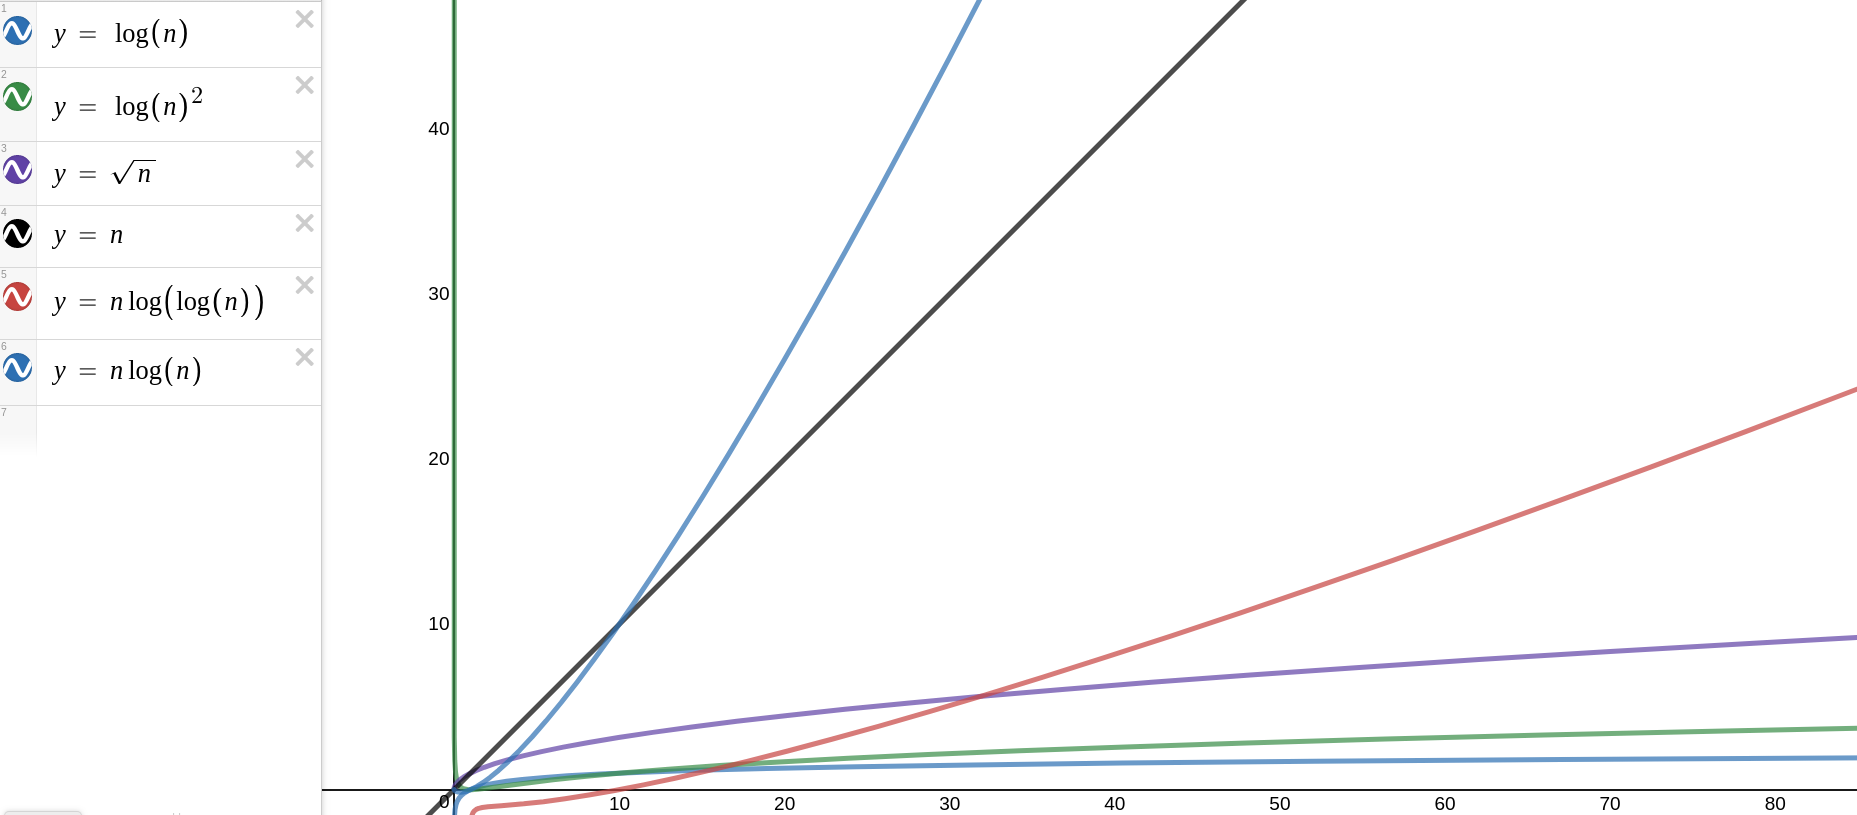
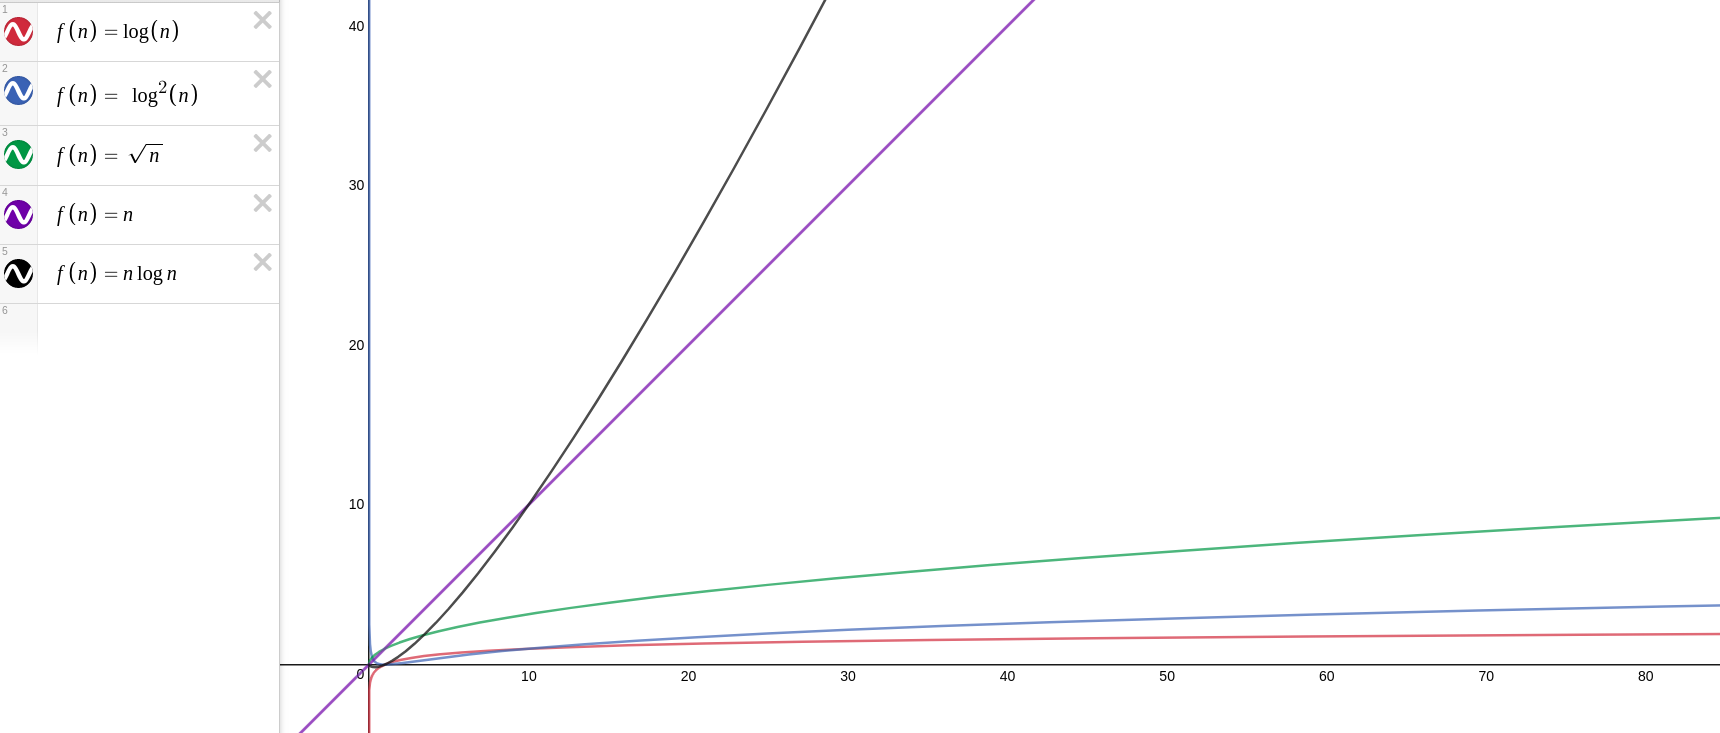
final updates before report

diff --git a/src/pages/templates/bigO.html b/src/pages/templates/bigO.html
@@ -47,34 +47,34 @@
         </div>
     </div>
 </div>
-<div class="container mt-4">
-    <div id="carouselGraphIndicators" class="carousel slide" data-ride="carousel">
-        <ol class="carousel-indicators">
-            <li data-target="#carouselGraphIndicators" data-slide-to="0" class="active"></li>
-            <li data-target="#carouselGraphIndicators" data-slide-to="1"></li>
-            <li data-target="#carouselGraphIndicators" data-slide-to="2"></li>
-        </ol>
-        <div class="carousel-inner">
-            <h5>Graphs of number of operations versus input size for various function</h5>
-            <div class="carousel-item active">
-                <img class="d-block w-100 h-100 rounded" src="{% static 'images/slowest.png'%}" alt="First slide">
-            </div>
-            <div class="carousel-item">
-                <img class="d-block w-100 h-100 rounded" src="{% static 'images/fastest.png'%}" alt="Second slide">
-            </div>
-            <div class="carousel-item">
-                <img class="d-block w-100 h-100 rounded" src="{% static 'images/all.png'%}" alt="Third slide">
-            </div>
+
+<div id="carouselGraphIndicators" class="carousel slide container mt-4 text-center" data-ride="carousel">
+    <ol class="carousel-indicators">
+        <li data-target="#carouselGraphIndicators" data-slide-to="0" class="active"></li>
+        <li data-target="#carouselGraphIndicators" data-slide-to="1"></li>
+        <li data-target="#carouselGraphIndicators" data-slide-to="2"></li>
+    </ol>
+    <div class="carousel-inner text-center">
+        <h1 class="display-5 p-3 mb-2 bg-warning text-white font-italic">Examples of the asymptotic notations</h1>
+        <p class="lead text-muted">Number of operations versus input size for example functions</p>
+        <div class="carousel-item active">
+            <img class="d-block w-60 h-60 rounded img-fluid" src="{% static 'images/slowest.png'%}" alt="First slide">
         </div>
-        <a class="carousel-control-prev" href="#carouselGraphIndicators" role="button" data-slide="prev">
-            <span class="carousel-control-prev-icon" aria-hidden="true"></span>
-            <span class="sr-only">Previous</span>
-        </a>
-        <a class="carousel-control-next" href="#carouselGraphIndicators" role="button" data-slide="next">
-            <span class="carousel-control-next-icon" aria-hidden="true"></span>
-            <span class="sr-only">Next</span>
-        </a>
+        <div class="carousel-item">
+            <img class="d-block w-60 h-60 rounded img-fluid" src="{% static 'images/fastest.png'%}" alt="Second slide">
+        </div>
+        <div class="carousel-item">
+            <img class="d-block w-60 h-60 rounded img-fluid" src="{% static 'images/all.png'%}" alt="Third slide">
+        </div>
     </div>
+    <a class="carousel-control-prev" href="#carouselGraphIndicators" role="button" data-slide="prev">
+        <span class="carousel-control-prev-icon"></span>
+        <span class="sr-only">Previous</span>
+    </a>
+    <a class="carousel-control-next" href="#carouselGraphIndicators" role="button" data-slide="next">
+        <span class="carousel-control-next-icon"></span>
+        <span class="sr-only">Next</span>
+    </a>
 </div>
 
 {% endblock %}

diff --git a/src/pages/templates/notes.html b/src/pages/templates/notes.html
@@ -2,6 +2,8 @@
 
 {% block content %}
 
+{% load static %}
+
 <div class="container">
     <h1 class="display-4 font-italic">Simplifying Complexity</h1>
     <p>
@@ -107,10 +109,27 @@
             </em>
         </tfoot>
     </table>
+
+    <div class="container mt-4 text-center">
+        <h1 class="display-5 p-3 mb-2 bg-warning text-white">Generalized Graphs of Asymptotic Notations</h1>
+        <p class="lead text-muted">Number of operations versus input size for example functions</p>
+        <img class="d-block w-60 h-60 rounded img-fluid" src="{% static 'images/asymptoticNotationGraphs.png'%}" alt="asymptotic example graphs">
+    </div>
+
+    <div class="row col-12 lead p-3 mt-2 mb-2">
+        <div class="container col-3"><p>Big Theta is shown as a tight bound.</p></div>
+        <div class="container col-3"><p>Big Oh is shown as a upper bound.</p></div>
+        <div class="container col-3"><p>Big Omega is shown as a lower bound.</p></div>
+    </div>
+
+    <div class="container mt-4 text-center">
+        <p><b>Disclaimer:</b> These graphs are not based on user input. They are examples to aid in visualizing the meaning of Big Oh, Theta, and Omega. </p>
+        <p class="text-center text-muted mt-3"><i class="fa fa-book"></i> Cormen, T.H., et al. Introduction to Algorithms. MIT Press, 2009. Page 45.</p>
+    </div>
 </div>
 <br>
 <hr>
-<div class="container">
+<div class="container mt-4">
     <h1 class="display-4 font-italic">Mastering Master's</h1>
     <p>
         The Master's Method, also known as the Master's Theorem, is a simple way to solve recurrences of the following

diff --git a/src/pages/templates/base.html b/src/pages/templates/base.html
@@ -16,6 +16,10 @@
 
     <!-- for loading LaTeX -->
     <script src='https://cdnjs.cloudflare.com/ajax/libs/mathjax/2.7.5/latest.js?config=TeX-MML-AM_CHTML' async></script>
+    <!-- for font awesome icons -->
+    <link rel="stylesheet" href="https://use.fontawesome.com/releases/v5.8.1/css/all.css" 
+    integrity="sha384-50oBUHEmvpQ+1lW4y57PTFmhCaXp0ML5d60M1M7uH2+nqUivzIebhndOJK28anvf" 
+    crossorigin="anonymous">
 
     <title>Intelligo</title>
 
@@ -31,7 +35,7 @@
                 <nav class="nav justify-content-center lead">
                     <a class="nav-link active" href="/#">Home</a>
                     <a class="nav-link" href="{% url 'notes' %}">Notes</a>
-                    <a class="nav-link" href="{% url 'bigO' %}">Asymptotic Complexity</a>
+                    <a class="nav-link" href="{% url 'bigO' %}">Asymptotic Analysis</a>
                     <a class="nav-link" href="{% url 'masters' %}">Master's Method</a>
                 </nav>
                 <hr>
